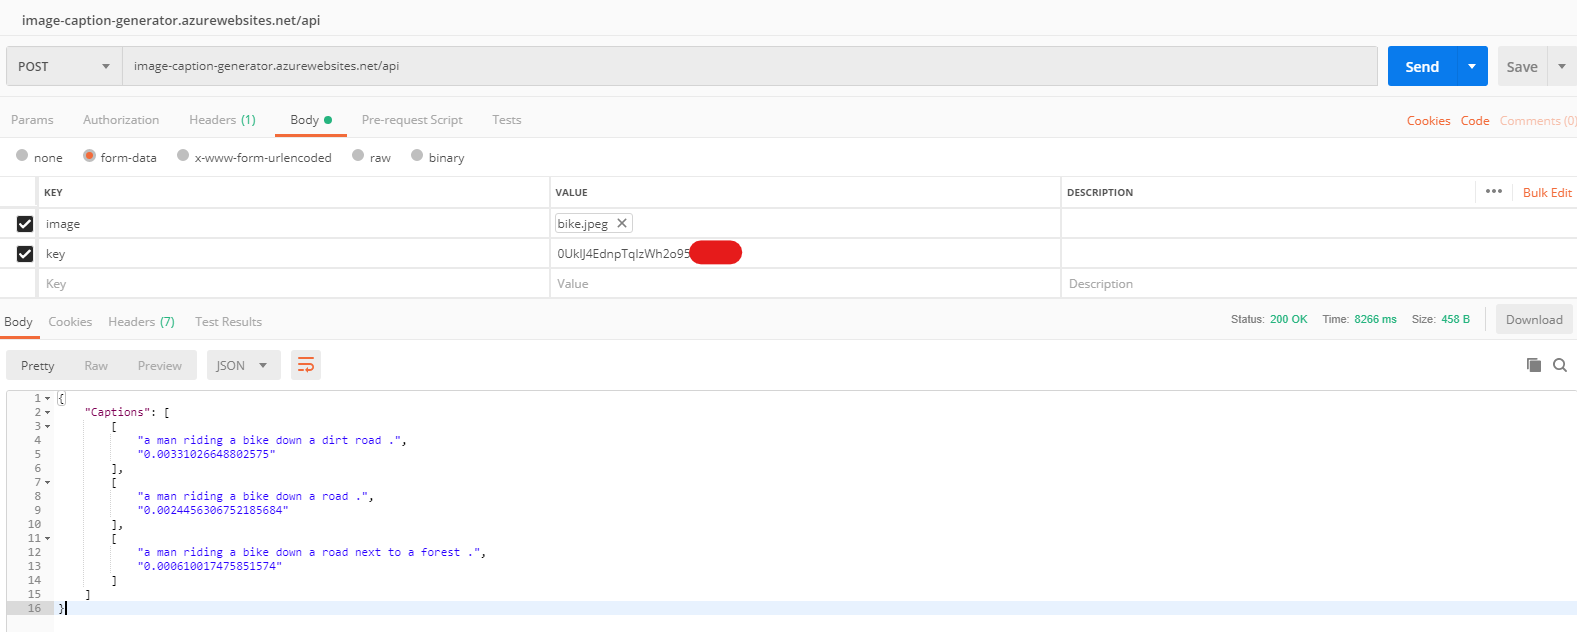
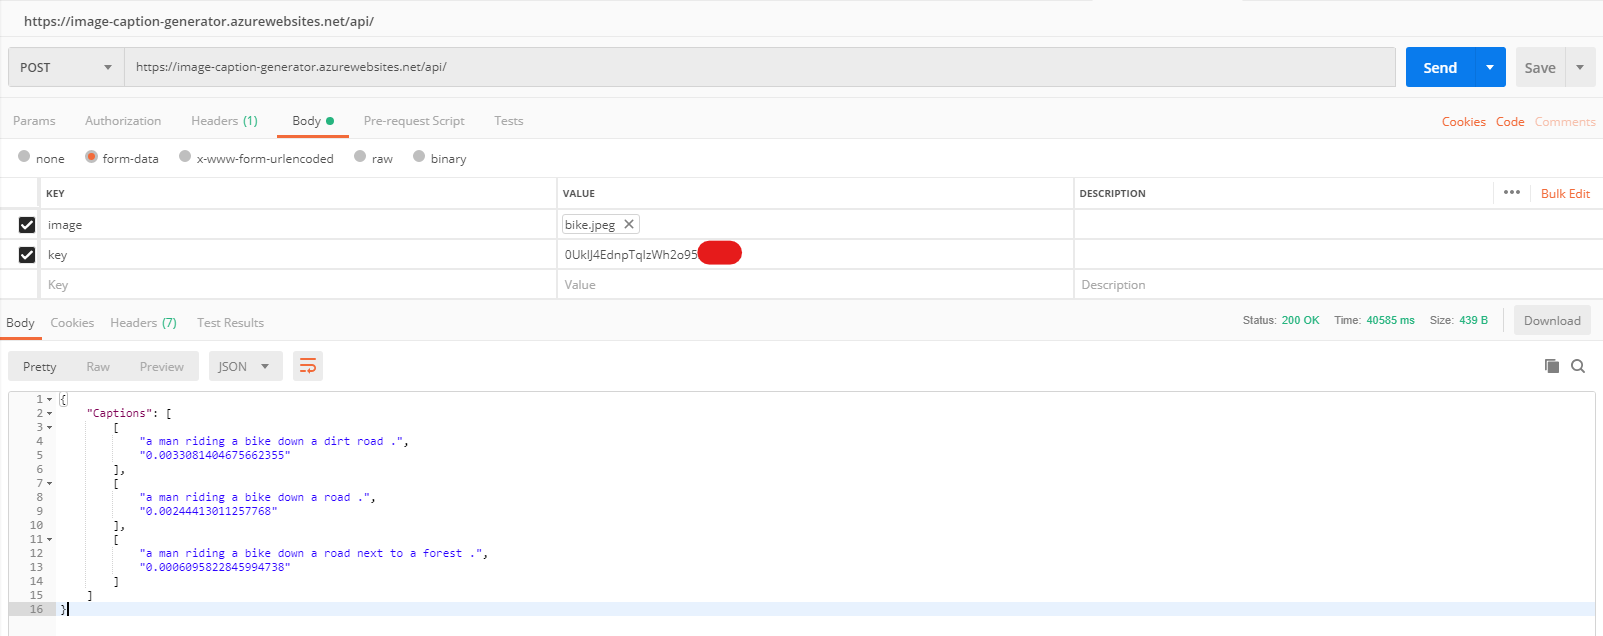
API changes

diff --git a/interface/templates/interface/api-end.html b/interface/templates/interface/api-end.html
@@ -55,7 +55,7 @@
     </div> 
     <div class="row m-2">
         <div class="col">
-            <div class="row"><p>Use your key and POST your image as form data with the help of Postman or any other similar helper to the link <pre class="m-2"><code>image-caption-generator.azurewebsites.net/api/</code></pre></p></div>
+            <div class="row"><p>Use your key and POST your image as form data with the help of Postman or any other similar helper to the link <pre class="m-2"><code>https://image-caption-generator.azurewebsites.net/api/</code></pre></p></div>
             <div class="row"><img src="/static/api.png" height="400"></div>
         </div>
     </div>
